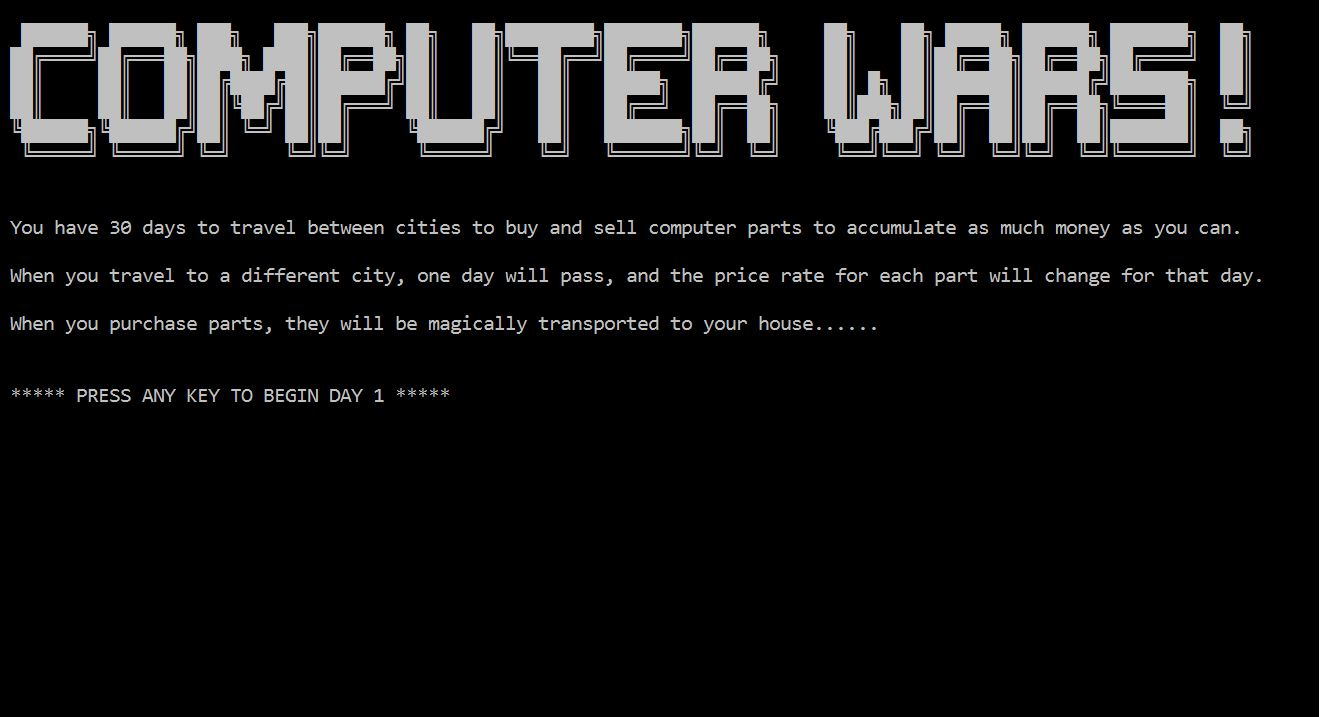
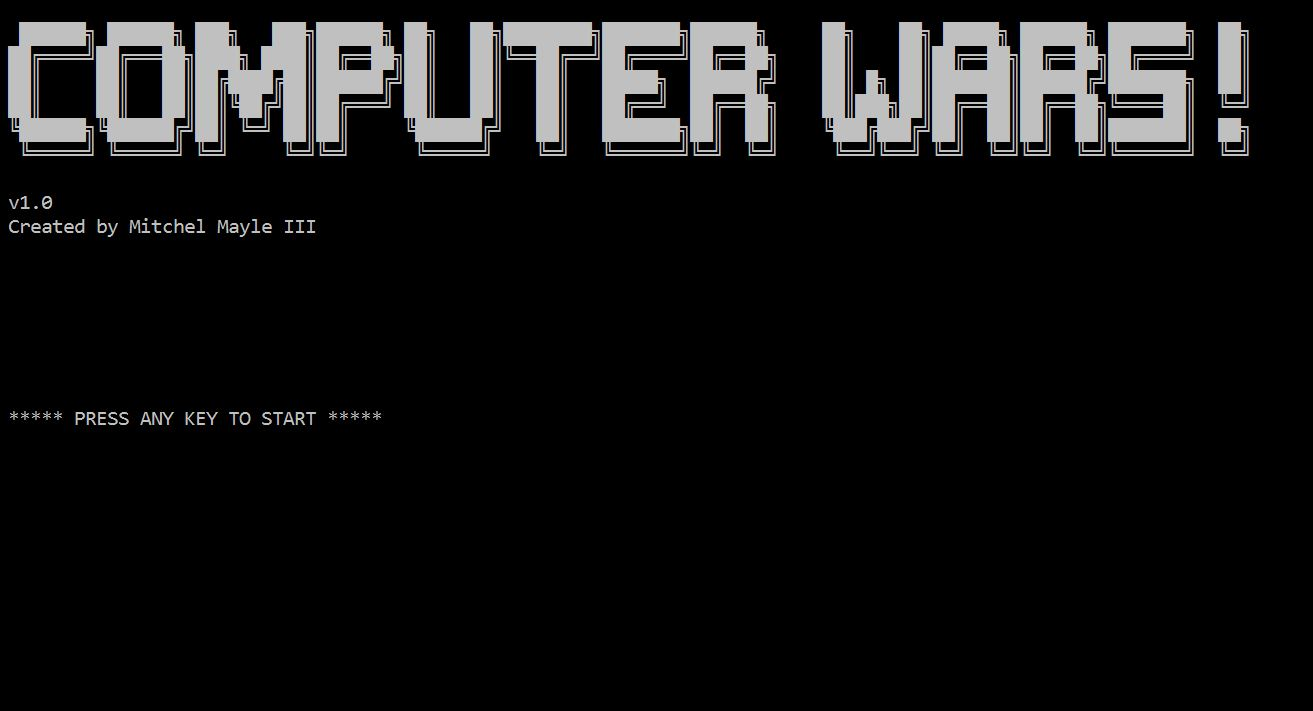
Updated Computer Wars info

diff --git a/index.html b/index.html
@@ -1,10 +1,10 @@
 <!DOCTYPE html>
 <html>
 <body>
-	<h1><span style="text-decoration: underline;"><strong>Computer Wars v0.92B</strong></span></h1>
+	<h1><span style="text-decoration: underline;"><strong>Computer Wars v1.0</strong></span></h1>
 	<p></p>
 	<p>This is my first command line game, programmed in C#.</p>
-	<p>You start with $1000 to buy/sell computer parts in 30 days. Prices of the parts will change randomly every day. There are even chances in between each day that something good or bad will happen.</p>
+	<p>You start with $1000 to buy/sell computer parts in 30 days. Prices of the parts will change randomly every day.</p>
 	<p>You can click the link below to download the game.</p>
 	<p><strong><img src="https://raw.githubusercontent.com/MitchelMayle/mitchelmayle.github.io/master/ComputerWars.JPG" alt="Computer Wars" width="477" height="259" /></strong></p>
 	<p><a href="https://drive.google.com/open?id=0B8zJ50LruVi0TndibmVzcGFkX2c">Download Computer Wars v0.92B</a></p>
